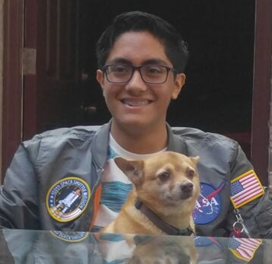
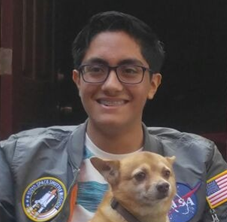
revised Sarah's bio, added Marc Jiang's bio and photo, re-cropped Andy's photo, created new section for "Interns"

diff --git a/people/index.html b/people/index.html
@@ -69,8 +69,10 @@
           <h2>Sarah Lee</h2>
           <h3>Research Study Coordinator</h3>
           <img class="lazy" data-src="../assets/img/people/sarah-lee.jpg" alt="">
-          <p>Sarah is from Rogers Park, Chicago. She is interested in hands-on making in informal learning environments and the spaces around: memory, memorials, and
-            museums, meaningful making, agentic memory identities and citizenship.</p>
+          <p>Sarah is from Rogers Park, Chicago. Her interests are Constructionist, hands-on making in informal 
+            learning environments, and the intersection of memory, memorials, museums, urban spaces, and identity.
+
+           </p>
         </section>
         <section class="textblock top_dog">
           <h2>Kelia Human</h2>
@@ -185,29 +187,45 @@
         <section class="textblock">
           <h2>Andy Moran</h2>
           <img class="lazy" data-src="../assets/img/people/andy-moran.png" alt="">
-          <p>Andy is a first generation second year studying Computer Science and currently working on the various Minecraft projects. He believes technology is the most effective way to overcome educational inequity. On campus, Andy is a mentor to first year students in the Society of Hispanic Professional Engineers as the Membership Chair. Outside of class, he can be found exploring new music and new food sometimes simultaneously.</p>
+          <p>Andy is a first generation second year studying Computer Science and 
+            currently working on the various Minecraft projects. He believes technology is 
+            the most effective way to overcome educational inequity. On campus, Andy is a mentor 
+            to first year students in the Society of Hispanic Professional Engineers as the 
+            Membership Chair. Outside of class, he can be found exploring new music and new food 
+            sometimes simultaneously.</p>
           <!-- <a href="#" target="_blank">website</a> -->
         </section>
         <section class="textblock">
           <h2>Isabelle Mallwitz</h2>
           <img class="lazy" data-src="../assets/img/people/isabelle-mallwitz.png" alt="">
-          <p>Isabelle is a second year in McCormick majoring in Manufacturing and Design Engineering and hoping to minor in Computer Science. She is interested in encouraging interest in STEM in young people in a variety of ways, as well as learning about user experience and user-focused design. Isabelle loves talking about dogs, sequential art, and character design.</p>
+          <p>Isabelle is a second year in McCormick majoring in Manufacturing and 
+            Design Engineering and hoping to minor in Computer Science. 
+            She is interested in encouraging interest in STEM in young people in a variety of ways, 
+            as well as learning about user experience and user-focused design. 
+            Isabelle loves talking about dogs, sequential art, and character design.</p>
           <!-- <a href="#" target="_blank">website</a> -->
         </section>
         <section class="textblock">
           <h2>Priya Kini</h2>
           <img class="lazy" data-src="../assets/img/people/priya-kini.png" alt="">
-          <p>Priya Kini is a second year in McCormick majoring in Computer Science with a minor in cognitive science. She is interested in using computer science to facilitate artistic learning, as well as fostering STEM education in under-represented communities. Apart from engineering, Priya enjoys dancing for Northwestern’s Bhangra team and exploring Chicago with her friends.</p>
+          <p>Priya Kini is a second year in McCormick majoring in Computer Science with a 
+            minor in cognitive science. She is interested in using computer science to facilitate 
+            artistic learning, as well as fostering STEM education in under-represented communities. 
+            Apart from engineering, Priya enjoys dancing for Northwestern’s Bhangra team and 
+            exploring Chicago with her friends.</p>
         </section>
          <!-- <a href="#" target="_blank">website</a> -->
         </section>
         <section class="textblock">
-          <h2>Mitchell Zhen</h2>
-          <img class="lazy" data-src="../assets/img/people/mitchell-zhen.png" alt="">
-          <p>Mitchell is a senior at Naperville Central High School. He hopes to major in Computer Science, and he is especially interested in the applications of data science and machine learning. One of his projects aims to expand access to technology for disadvantaged communities. In the lab, he is currently working on the Sony Project. In his free time, he enjoys biking and sushi.
-          </p>
-        </section>
+          <h2>Marc Jiang</h2>
+          <img class="lazy" data-src="../assets/img/people/marc-jiang.png" alt="">
+          <p>Marc is a second year student at Northwestern University studying Computer Science 
+            in McCormick. He is from Chicago and is interested in how computer science can be used 
+            for education, reading emotions, and the health industry. 
+            He is currently helping with the Learning with Minecraft, FamJam, and IMR projects.</p>
           <!-- <a href="#" target="_blank">website</a> -->
+        </section>
+
         <section class="textblock">
           <h2>Sam Arrants</h2>
           <img class="lazy" data-src="../assets/img/people/sam-arrants.jpg" alt="">
@@ -216,6 +234,17 @@
             interested in a good bowl of cereal. And dogs.</p>
           <!-- <a href="#" target="_blank">website</a> -->
         </section>
+      </div>
+    </article>
+    <article class="interns">
+      <h1>Interns</h1>
+        <section class="textblock">
+          <h2>Mitchell Zhen</h2>
+          <img class="lazy" data-src="../assets/img/people/mitchell-zhen.png" alt="">
+          <p>Mitchell is a senior at Naperville Central High School. He hopes to major in Computer Science, and he is especially interested in the applications of data science and machine learning. One of his projects aims to expand access to technology for disadvantaged communities. In the lab, he is currently working on the Sony Project. In his free time, he enjoys biking and sushi.
+          </p>
+        </section>
+          <!-- <a href="#" target="_blank">website</a> -->
       </div>
     </article>
     <article class="alumni">
